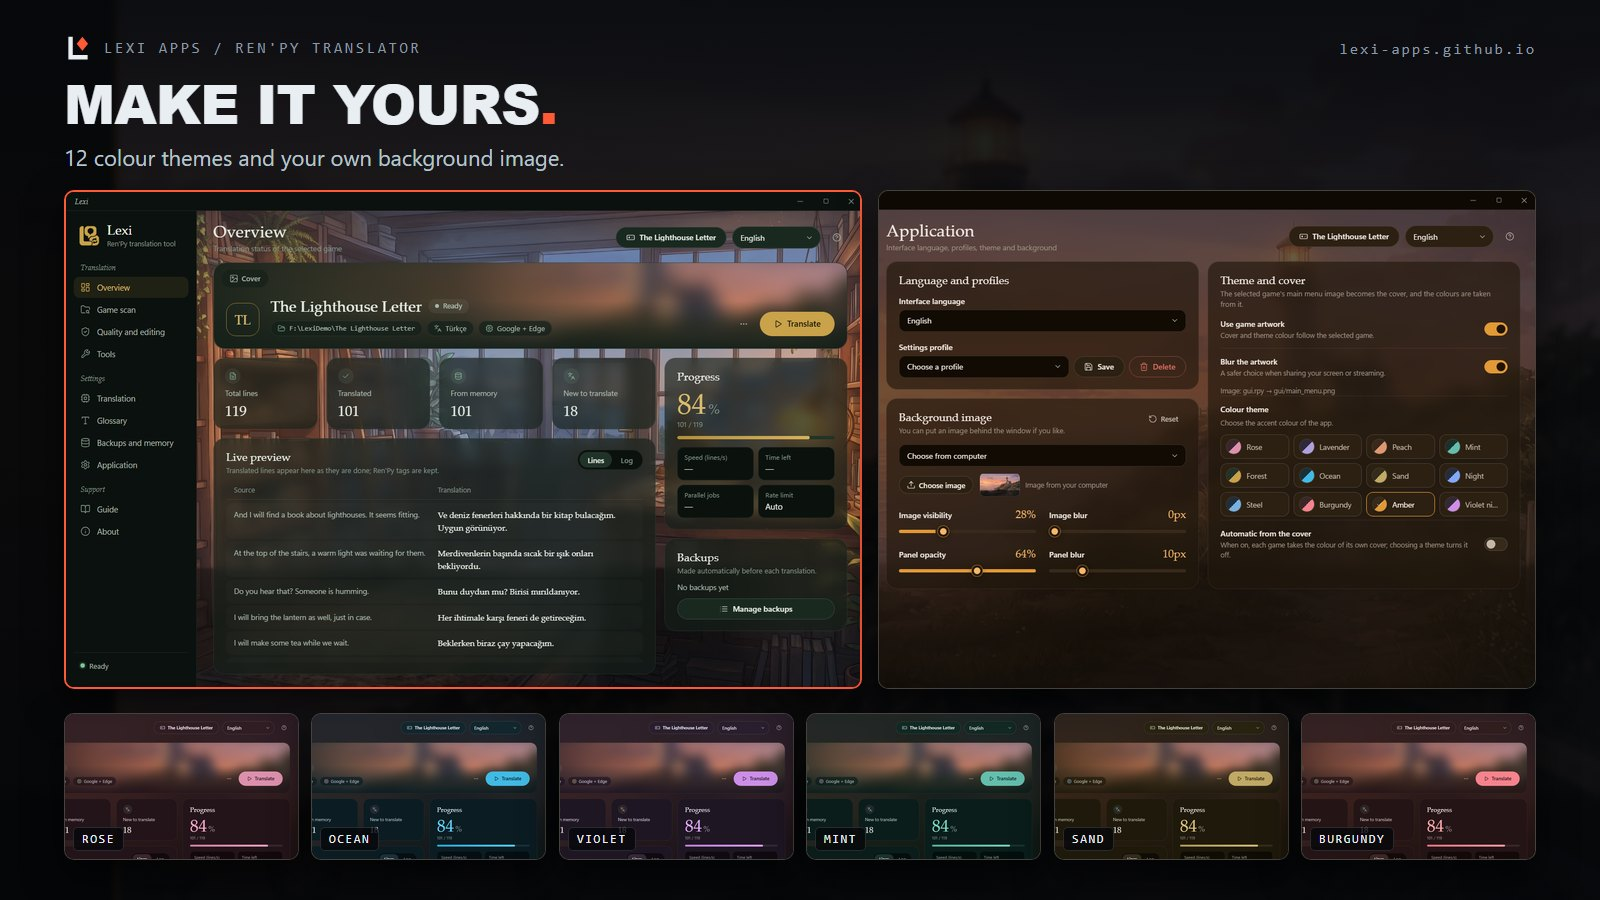
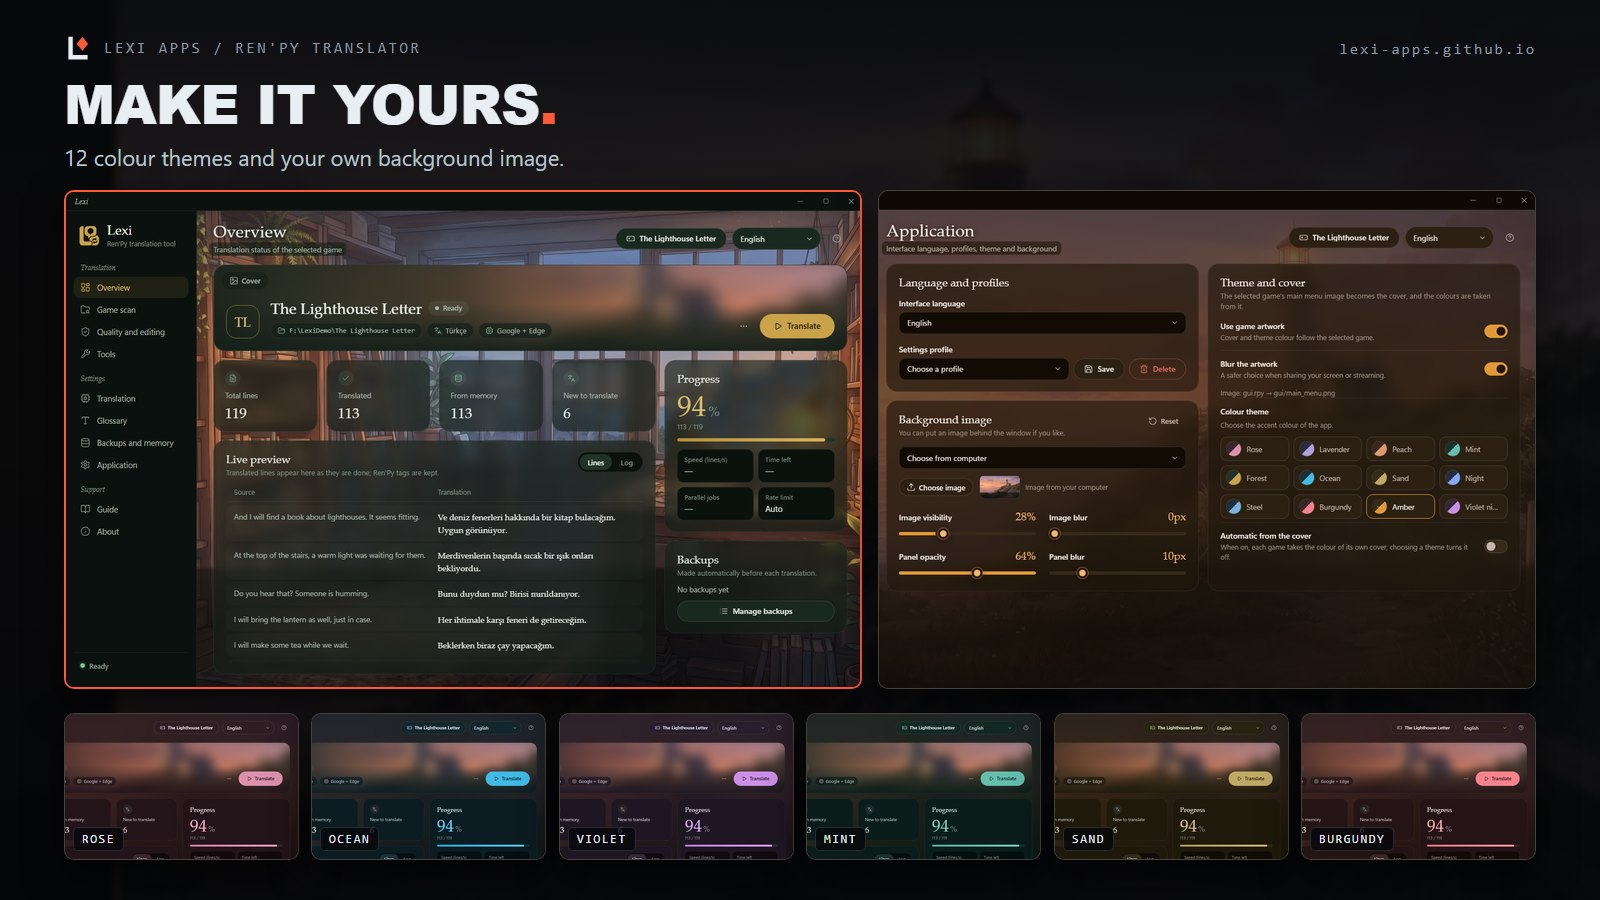
Refresh app screenshots and theme card; drop the About screenshot

diff --git a/index.html b/index.html
@@ -205,41 +205,36 @@
           <button type="button" role="tab" id="shot-tab-5" aria-controls="shot-5" aria-selected="false" tabindex="-1"><span>05</span>Tools &amp; coverage</button>
           <button type="button" role="tab" id="shot-tab-6" aria-controls="shot-6" aria-selected="false" tabindex="-1"><span>06</span>Glossary</button>
           <button type="button" role="tab" id="shot-tab-7" aria-controls="shot-7" aria-selected="false" tabindex="-1"><span>07</span>Themes</button>
-          <button type="button" role="tab" id="shot-tab-8" aria-controls="shot-8" aria-selected="false" tabindex="-1"><span>08</span>About</button>
         </div>
         <div class="viewer__frame frame">
           <i class="frame__c frame__c--tl" aria-hidden="true"></i><i class="frame__c frame__c--tr" aria-hidden="true"></i><i class="frame__c frame__c--bl" aria-hidden="true"></i><i class="frame__c frame__c--br" aria-hidden="true"></i>
           <figure class="shot is-on" id="shot-1" role="tabpanel" aria-labelledby="shot-tab-1">
             <img src="img/translator/01-overview.png" width="1440" height="900" loading="lazy" decoding="async" alt="Lexi Ren'Py Translator screenshot: the Overview screen of the app.">
-            <figcaption><span>Fig. 01 / 08</span>Overview</figcaption>
+            <figcaption><span>Fig. 01 / 07</span>Overview</figcaption>
           </figure>
           <figure class="shot" id="shot-2" role="tabpanel" aria-labelledby="shot-tab-2">
             <img src="img/translator/02-scan.png" width="1440" height="900" loading="lazy" decoding="async" alt="Lexi Ren'Py Translator screenshot: the Game scan screen.">
-            <figcaption><span>Fig. 02 / 08</span>Game scan</figcaption>
+            <figcaption><span>Fig. 02 / 07</span>Game scan</figcaption>
           </figure>
           <figure class="shot" id="shot-3" role="tabpanel" aria-labelledby="shot-tab-3">
             <img src="img/translator/03-engine-settings.png" width="1440" height="900" loading="lazy" decoding="async" alt="Lexi Ren'Py Translator screenshot: the Engine settings screen, where a translation engine is chosen.">
-            <figcaption><span>Fig. 03 / 08</span>Engine settings</figcaption>
+            <figcaption><span>Fig. 03 / 07</span>Engine settings</figcaption>
           </figure>
           <figure class="shot" id="shot-4" role="tabpanel" aria-labelledby="shot-tab-4">
             <img src="img/translator/04-quality-editor.png" width="1440" height="900" loading="lazy" decoding="async" alt="Lexi Ren'Py Translator screenshot: the Quality and editor screen with the translation editor and quality checks.">
-            <figcaption><span>Fig. 04 / 08</span>Quality &amp; editor</figcaption>
+            <figcaption><span>Fig. 04 / 07</span>Quality &amp; editor</figcaption>
           </figure>
           <figure class="shot" id="shot-5" role="tabpanel" aria-labelledby="shot-tab-5">
             <img src="img/translator/05-tools-coverage.png" width="1440" height="900" loading="lazy" decoding="async" alt="Lexi Ren'Py Translator screenshot: the Tools and coverage screen.">
-            <figcaption><span>Fig. 05 / 08</span>Tools &amp; coverage</figcaption>
+            <figcaption><span>Fig. 05 / 07</span>Tools &amp; coverage</figcaption>
           </figure>
           <figure class="shot" id="shot-6" role="tabpanel" aria-labelledby="shot-tab-6">
             <img src="img/translator/06-glossary.png" width="1440" height="900" loading="lazy" decoding="async" alt="Lexi Ren'Py Translator screenshot: the Glossary screen.">
-            <figcaption><span>Fig. 06 / 08</span>Glossary</figcaption>
+            <figcaption><span>Fig. 06 / 07</span>Glossary</figcaption>
           </figure>
           <figure class="shot" id="shot-7" role="tabpanel" aria-labelledby="shot-tab-7">
             <img src="img/translator/07-themes.png" width="1440" height="900" loading="lazy" decoding="async" alt="Lexi Ren'Py Translator screenshot: the Themes screen with the color themes.">
-            <figcaption><span>Fig. 07 / 08</span>Themes</figcaption>
-          </figure>
-          <figure class="shot" id="shot-8" role="tabpanel" aria-labelledby="shot-tab-8">
-            <img src="img/translator/08-about.png" width="1440" height="900" loading="lazy" decoding="async" alt="Lexi Ren'Py Translator screenshot: the About screen.">
-            <figcaption><span>Fig. 08 / 08</span>About</figcaption>
+            <figcaption><span>Fig. 07 / 07</span>Themes</figcaption>
           </figure>
         </div>
       </div>
